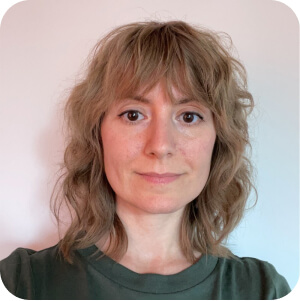
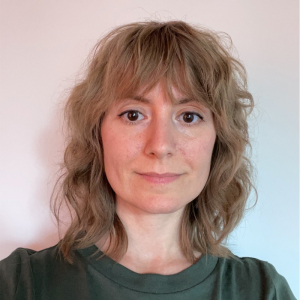
Content update: June 2023
- replaced team pictures
- added team member slot
- removed past event
- added shoutout for future event host
- added link to Fronteers slack in footer

diff --git a/src/assets/theming/_index.scss b/src/assets/theming/_index.scss
@@ -31,6 +31,10 @@ section.introduction p {
 
 section.events {
   text-align: center;
+
+  .card {
+    max-width: 500px;
+  }
 }
 
 .event__list-item {
@@ -158,14 +162,22 @@ section.team {
 }
 
 .organiser-profile {
-  flex: 1; 
+  flex: 1;
+
+  h3 {
+    margin-top: 0.7rem;;
+  }
 
   @include breakpoint-tablet {
     flex: none;
   }
 
+  picture {
+    display: inline-block;
+    font-size: 0;
+  }
+
   img {
-    height: auto;
     width: 200px;
   }
   
@@ -175,5 +187,33 @@ section.team {
     + li {
       margin-left: 10px;
     }
+  }
+
+  .image {
+    background-color: var(--purple-color);
+    border-radius: var(--radius);
+    height: 200px;
+    width: 200px;
+
+    &__placeholder {
+      display: flex;
+      justify-content: center;
+      align-items: center;
+      
+      span {
+        color: white;
+        font-size: 5rem;
+        font-weight: bold;
+        line-height: 1;
+        white-space: nowrap;
+        padding-top: 10px;       
+      }
+    }
+  }
+
+  p {
+    font-size: 1rem;
+    max-width: 200px;
+    text-align: left;
   }
 }

diff --git a/src/assets/theming/_general.scss b/src/assets/theming/_general.scss
@@ -89,7 +89,14 @@ ul, ol {
 
 
 main {
-  padding: 4em 0 2em 0;
+  padding: 4em 0;
+}
+
+footer {
+  border-top: 1px solid #eee;
+  font-size: var(--16px);
+  padding: 2rem 1rem;
+  text-align: center;
 }
 
 section + section {

diff --git a/src/assets/theming/_mixins.scss b/src/assets/theming/_mixins.scss
@@ -14,7 +14,7 @@
   --21px: 1.3125rem;
   --40px: calc(40rem / 16);
 
-  --radius: calc(12rem / 16);
+  --radius: calc(16rem / 16);
 }
 
 
